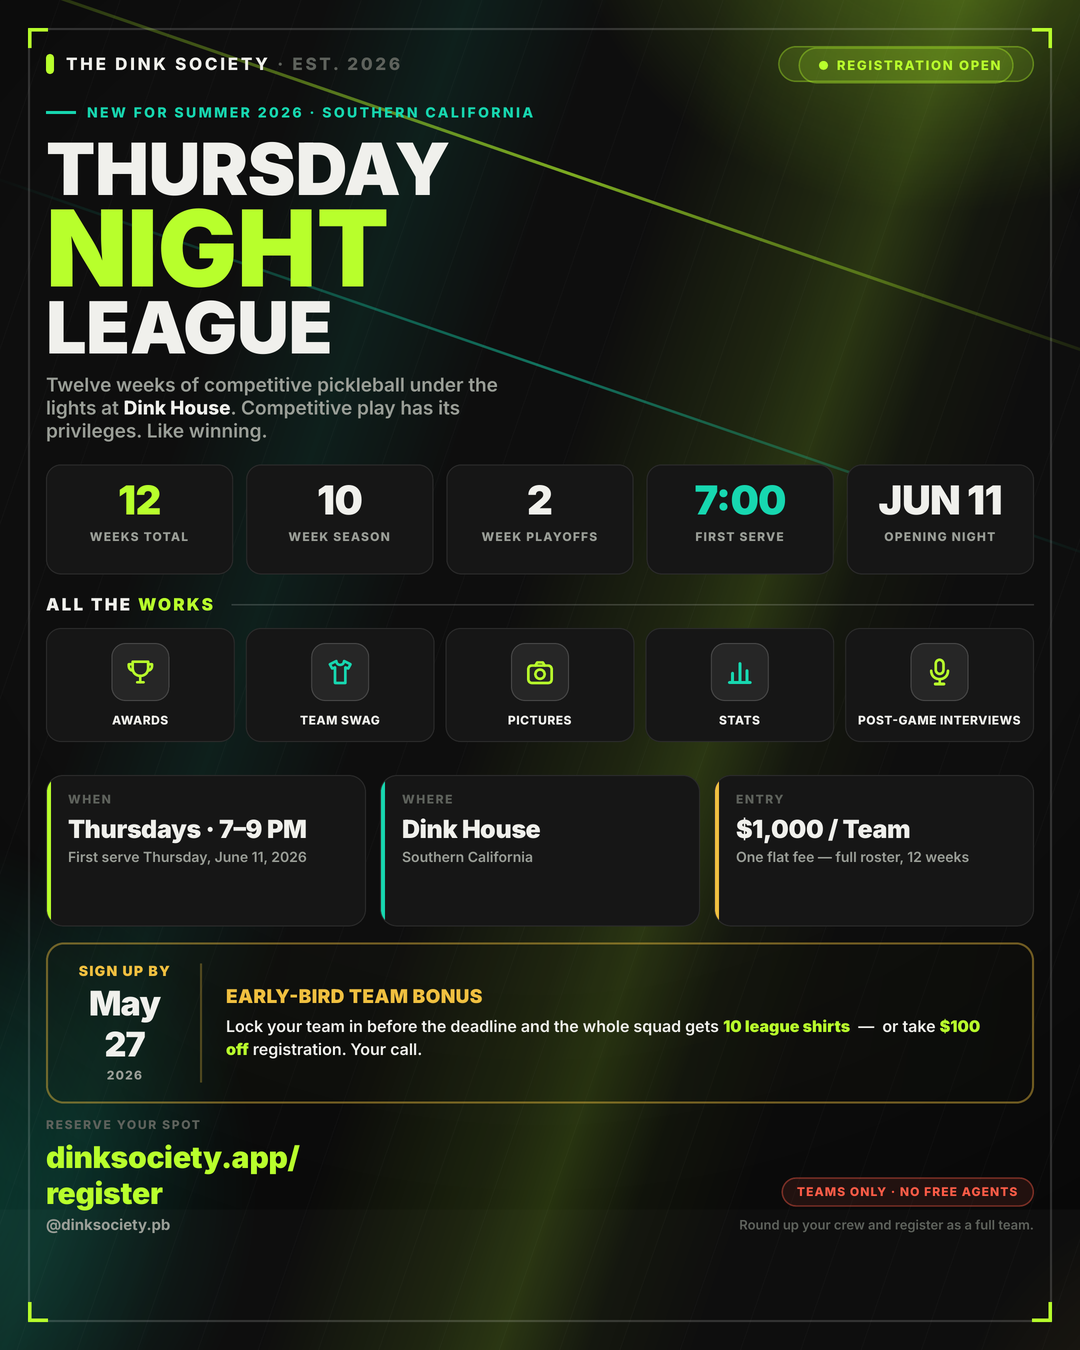
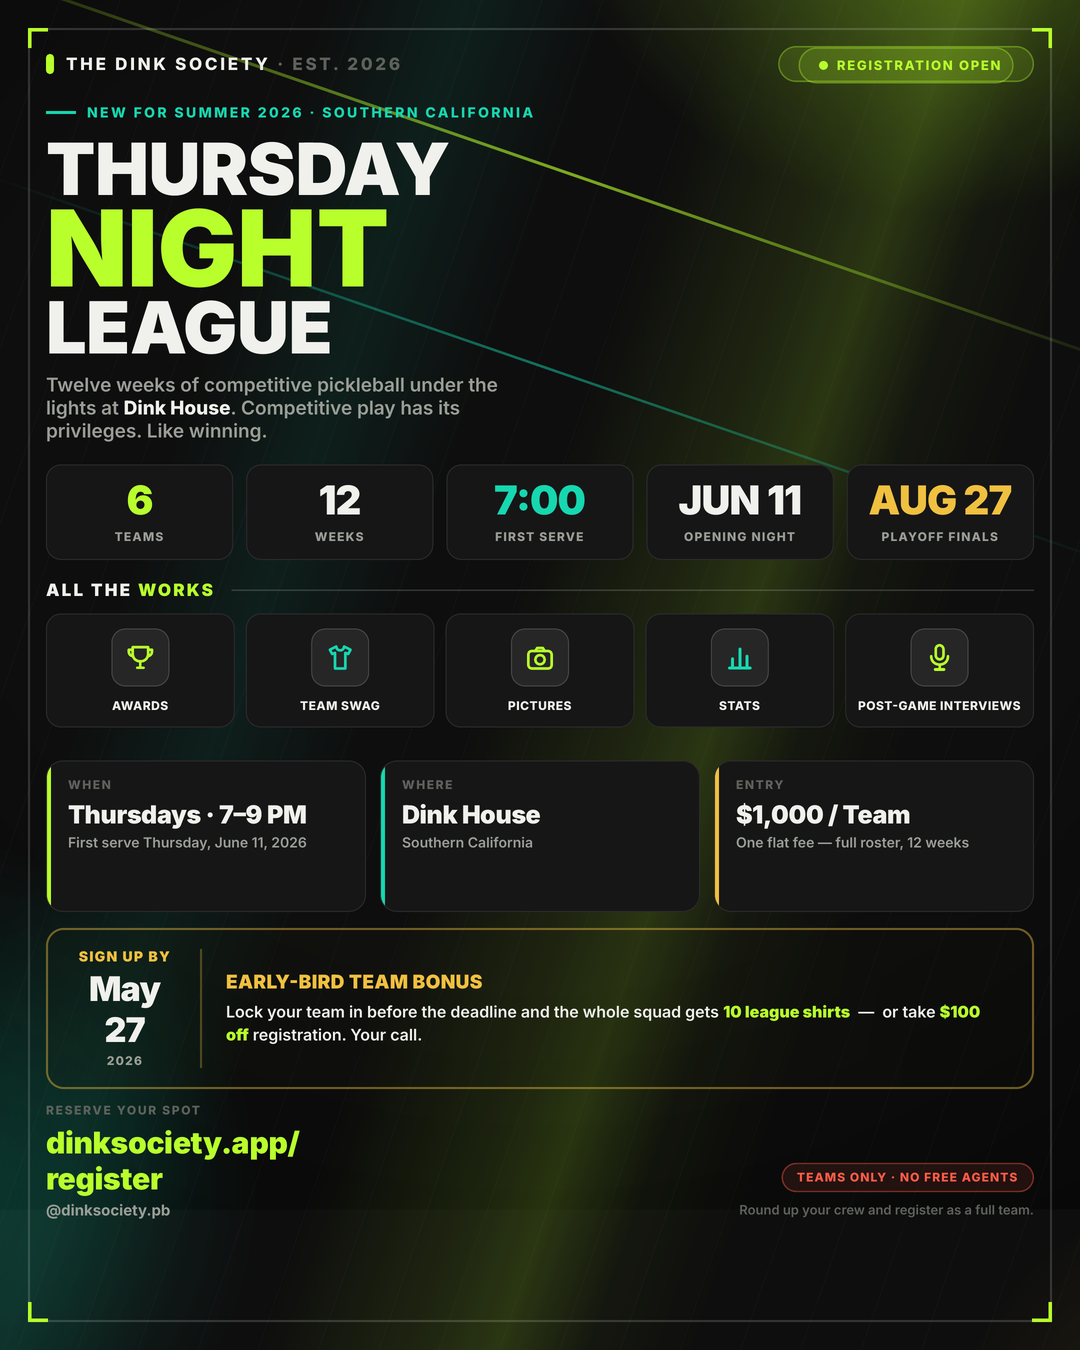
Registration:  deposit model with tracked team-fee balance

diff --git a/netlify/functions/register-checkout.js b/netlify/functions/register-checkout.js
@@ -73,6 +73,32 @@ export default async (req) => {
       }
     }
 
+    // ── Deposit model ──────────────────────────────────────────
+    // Teams pay a deposit now; the remaining team fee is tracked as a
+    // balance collected separately before the season. Agents pay in full.
+    const isTeam = path === 'team';
+    let depositAmount = 100;
+    let balanceDueDate = null;
+    try {
+      const configStore = getStore({ name: 'config', consistency: 'strong' });
+      const cfgRaw = await configStore.get('circuit-settings');
+      if (cfgRaw) {
+        const cfg = JSON.parse(cfgRaw);
+        if (cfg.depositAmount != null) depositAmount = Number(cfg.depositAmount);
+        if (cfg.balanceDueDate) balanceDueDate = cfg.balanceDueDate;
+      }
+    } catch (e) {
+      console.warn('Could not load circuit-settings for deposit; using defaults:', e.message);
+    }
+
+    const totalPrice = resolvedPrice;
+    // Agents pay in full; clamp the deposit so it never exceeds the total.
+    if (!isTeam || !(depositAmount > 0) || depositAmount > totalPrice) {
+      depositAmount = totalPrice;
+    }
+    const amountDueNow = depositAmount;
+    const balanceDue = Math.max(0, totalPrice - amountDueNow);
+
     // Generate a registration ID
     const regId = crypto.randomBytes(8).toString('hex');
 
@@ -85,7 +111,12 @@ export default async (req) => {
       divisionLabel: divisionLabel || division,
       path,
       status: 'pending',
-      price: resolvedPrice,
+      price: totalPrice,
+      totalPrice: totalPrice,
+      paymentType: isTeam ? 'deposit' : 'full',
+      depositAmount: amountDueNow,
+      balanceDue: balanceDue,
+      balanceDueDate: balanceDue > 0 ? balanceDueDate : null,
       team: path === 'team' ? team : undefined,
       agent: path === 'agent' ? agent : undefined,
       createdAt: new Date().toISOString(),
@@ -117,27 +148,36 @@ export default async (req) => {
       },
     };
 
-    // Use the Stripe price ID from the season if available,
-    // otherwise fall back to price_data (inline pricing)
-    if (stripePriceId) {
+    // Teams are billed the deposit now via an inline price. The full-price
+    // Stripe price ID is only used when the whole amount is due at checkout
+    // (free agents).
+    if (isTeam) {
+      sessionParams.line_items = [{
+        price_data: {
+          currency: 'usd',
+          product_data: {
+            name: `Dink Society — Team Registration Deposit (${divisionLabel || division})`,
+            description: `${circuit || 'Dink Society'} · ${divisionLabel || division} · $${amountDueNow} deposit toward the $${totalPrice} team fee`,
+          },
+          unit_amount: Math.round(amountDueNow * 100),
+        },
+        quantity: 1,
+      }];
+    } else if (stripePriceId) {
       sessionParams.line_items = [{
         price: stripePriceId,
         quantity: 1,
       }];
     } else {
       // Fallback: create an inline price (works even without admin-created Stripe products)
-      const displayName = path === 'team'
-        ? `Dink Society — Team Registration (${divisionLabel || division})`
-        : `Dink Society — Free Agent Registration (${divisionLabel || division})`;
-
       sessionParams.line_items = [{
         price_data: {
           currency: 'usd',
           product_data: {
-            name: displayName,
+            name: `Dink Society — Free Agent Registration (${divisionLabel || division})`,
             description: `${circuit || 'Dink Society'} · ${divisionLabel || division}`,
           },
-          unit_amount: Math.round(resolvedPrice * 100),
+          unit_amount: Math.round(totalPrice * 100),
         },
         quantity: 1,
       }];

diff --git a/public/register.html b/public/register.html
@@ -38,6 +38,12 @@
 
     .reg-h2 { font-size: var(--text-xl); font-weight: 800; text-transform: uppercase; margin: 0 0 var(--space-2); }
     .reg-lede { font-size: 13px; line-height: 1.6; color: var(--color-text-muted); margin: 0 0 var(--space-6); }
+    .reg-note {
+      font-size: 12.5px; line-height: 1.6; color: var(--color-text-muted);
+      background: var(--color-lime-ghost); border: 1px solid var(--color-lime);
+      border-radius: var(--radius-sm); padding: 12px 14px; margin: 0 0 var(--space-6);
+    }
+    .reg-note strong { color: var(--color-text); }
 
     /* ── Path cards ───────────────────────────────────── */
     .reg-paths { display: grid; grid-template-columns: 1fr 1fr; gap: 12px; }
@@ -176,6 +182,7 @@
       <section class="reg-section is-active" data-section="1">
         <h2 class="reg-h2">Team details</h2>
         <p class="reg-lede">Confirm your division, name the team, and enter the captain's info. You'll build your roster (4–10 players) through the Captain Portal after checkout.</p>
+        <p class="reg-note" id="deposit-note">Reserve your team's spot with a <strong>$100 deposit</strong> today. The remaining <strong>$900</strong> of the $1,000 team fee is due by <strong>June 4, 2026</strong>.</p>
 
         <div class="reg-field">
           <div class="reg-field__label">Division</div>
@@ -221,10 +228,10 @@
       <!-- Step 3: Review -->
       <section class="reg-section" data-section="3">
         <h2 class="reg-h2">Review & pay</h2>
-        <p class="reg-lede">Confirm the details, then pay via Stripe to lock in your spot.</p>
+        <p class="reg-lede">Confirm the details, then pay your deposit via Stripe to lock in your spot. Your remaining team-fee balance is due before the season starts.</p>
         <div class="reg-summary" id="summary"></div>
         <div class="reg-status" id="submit-status"></div>
-        <div class="reg-actions"><button type="button" class="reg-btn reg-btn--secondary" data-back="2">Back</button><button type="button" class="reg-btn reg-btn--primary" id="submit-btn">Pay & secure spot</button></div>
+        <div class="reg-actions"><button type="button" class="reg-btn reg-btn--secondary" data-back="2">Back</button><button type="button" class="reg-btn reg-btn--primary" id="submit-btn">Pay deposit & secure spot</button></div>
       </section>
     </div>
   </div>
@@ -234,8 +241,39 @@
 
   <script>
     const TEAM_PRICE = 1000;
+    let DEPOSIT = 100;
+    let BALANCE_DUE_DATE = '2026-06-04';
     const DIVISION = { code: '3.5M', label: '3.0–3.5 Mixed' };
     const state = { division: DIVISION.code, step: 1 };
+
+    // Pull live deposit / balance-due settings (falls back to the constants above)
+    fetch('/.netlify/functions/admin-settings')
+      .then(r => r.json())
+      .then(s => {
+        if (s && s.depositAmount != null) DEPOSIT = Number(s.depositAmount);
+        if (s && s.balanceDueDate) BALANCE_DUE_DATE = s.balanceDueDate;
+        applyDepositCopy();
+      })
+      .catch(() => {});
+
+    function fmtDate(iso) {
+      if (!iso) return 'before the season';
+      const d = new Date(iso + 'T00:00:00');
+      return isNaN(d.getTime()) ? iso : d.toLocaleDateString('en-US', { month: 'long', day: 'numeric', year: 'numeric' });
+    }
+
+    function applyDepositCopy() {
+      const balance = Math.max(0, TEAM_PRICE - DEPOSIT);
+      const note = document.getElementById('deposit-note');
+      if (note) {
+        note.innerHTML = 'Reserve your team\'s spot with a <strong>$' + DEPOSIT.toLocaleString() +
+          ' deposit</strong> today. The remaining <strong>$' + balance.toLocaleString() +
+          '</strong> of the $' + TEAM_PRICE.toLocaleString() + ' team fee is due by <strong>' +
+          fmtDate(BALANCE_DUE_DATE) + '</strong>.';
+      }
+      const btn = document.getElementById('submit-btn');
+      if (btn) btn.textContent = 'Pay $' + DEPOSIT.toLocaleString() + ' deposit & secure spot';
+    }
 
     // Step navigation
     function goToStep(n) {
@@ -295,9 +333,12 @@
       rows.push(['Registration type', 'Team']);
       rows.push(['Team name', escapeHtml(document.getElementById('team-name').value.trim())]);
       rows.push(['Captain', escapeHtml(val('p1-first') + ' ' + val('p1-last'))]);
+      rows.push(['Season team fee', '$' + TEAM_PRICE.toLocaleString()]);
+      const balance = Math.max(0, TEAM_PRICE - DEPOSIT);
+      rows.push(['Balance due ' + fmtDate(BALANCE_DUE_DATE), '$' + balance.toLocaleString()]);
       document.getElementById('summary').innerHTML =
         rows.map(([k, v]) => `<div class="reg-summary__row"><span class="reg-summary__label">${k}</span><span class="reg-summary__value">${v}</span></div>`).join('') +
-        `<div class="reg-summary__row reg-summary__row--total"><span class="reg-summary__label">Total due today</span><span class="reg-summary__value">$${TEAM_PRICE.toLocaleString()}</span></div>`;
+        `<div class="reg-summary__row reg-summary__row--total"><span class="reg-summary__label">Deposit due today</span><span class="reg-summary__value">$${DEPOSIT.toLocaleString()}</span></div>`;
     }
 
     // Submit → Stripe

diff --git a/netlify/functions/stripe-webhook.js b/netlify/functions/stripe-webhook.js
@@ -83,7 +83,17 @@ export default async (req) => {
       reg.confirmedAt = new Date().toISOString();
       reg.stripePaymentIntent = session.payment_intent || null;
       reg.stripeCustomer = session.customer || null;
-      reg.amountPaid = session.amount_total ? session.amount_total / 100 : reg.price;
+
+      // Record what was actually collected. For deposit registrations this
+      // is the deposit; the rest stays tracked as an outstanding balance.
+      const paidNow = session.amount_total
+        ? session.amount_total / 100
+        : (reg.depositAmount || reg.price || 0);
+      const totalFee = reg.totalPrice || reg.price || paidNow;
+      reg.amountPaid = paidNow;
+      reg.depositPaid = paidNow;
+      reg.balanceDue = reg.paymentType === 'deposit' ? Math.max(0, totalFee - paidNow) : 0;
+      reg.paymentStatus = reg.balanceDue > 0 ? 'deposit_paid' : 'paid_in_full';
 
       // Write to confirmed/ prefix
       await regStore.set(confirmedKey, JSON.stringify(reg));
@@ -147,6 +157,20 @@ export default async (req) => {
         const siteUrl = process.env.SITE_URL || '';
         const isTeam = reg.path === 'team';
 
+        const hasBalance = reg.paymentType === 'deposit' && (reg.balanceDue || 0) > 0;
+        const dueDateLabel = (() => {
+          if (!reg.balanceDueDate) return '';
+          const d = new Date(reg.balanceDueDate + 'T00:00:00');
+          return isNaN(d.getTime())
+            ? reg.balanceDueDate
+            : d.toLocaleDateString('en-US', { month: 'long', day: 'numeric', year: 'numeric' });
+        })();
+        const paymentRows = hasBalance
+          ? `<tr><td style="padding: 6px 0; color: #8a8a8a;">Team fee</td><td style="padding: 6px 0; text-align: right; font-weight: 600;">$${totalFee}</td></tr>
+                    <tr><td style="padding: 6px 0; color: #8a8a8a;">Deposit paid</td><td style="padding: 6px 0; text-align: right; font-weight: 600; color: #b8ff2c;">$${reg.depositPaid || reg.amountPaid}</td></tr>
+                    <tr><td style="padding: 6px 0; color: #8a8a8a;">Balance due${dueDateLabel ? ' by ' + dueDateLabel : ''}</td><td style="padding: 6px 0; text-align: right; font-weight: 600;">$${reg.balanceDue}</td></tr>`
+          : `<tr><td style="padding: 6px 0; color: #8a8a8a;">Amount paid</td><td style="padding: 6px 0; text-align: right; font-weight: 600; color: #b8ff2c;">$${reg.amountPaid || reg.price}</td></tr>`;
+
         try {
           await sendEmail({
             to: recipientEmail,
@@ -166,10 +190,18 @@ export default async (req) => {
                     <tr><td style="padding: 6px 0; color: #8a8a8a;">Division</td><td style="padding: 6px 0; text-align: right; font-weight: 600;">${reg.divisionLabel || reg.division}</td></tr>
                     ${isTeam ? `<tr><td style="padding: 6px 0; color: #8a8a8a;">Team</td><td style="padding: 6px 0; text-align: right; font-weight: 600;">${reg.team?.name || '—'}</td></tr>` : ''}
                     <tr><td style="padding: 6px 0; color: #8a8a8a;">Type</td><td style="padding: 6px 0; text-align: right; font-weight: 600;">${isTeam ? 'Team' : 'Free Agent'}</td></tr>
-                    <tr><td style="padding: 6px 0; color: #8a8a8a;">Amount paid</td><td style="padding: 6px 0; text-align: right; font-weight: 600; color: #b8ff2c;">$${reg.amountPaid || reg.price}</td></tr>
+                    ${paymentRows}
                     <tr><td style="padding: 6px 0; color: #8a8a8a;">Reference</td><td style="padding: 6px 0; text-align: right; font-family: monospace; font-size: 12px; color: #8a8a8a;">${regId.toUpperCase()}</td></tr>
                   </table>
                 </div>
+
+                ${hasBalance ? `
+                <div style="background: #1a1a1a; border: 1px solid #2a2a2a; border-left: 3px solid #b8ff2c; padding: 16px 20px; border-radius: 0 12px 12px 0; margin-bottom: 24px;">
+                  <p style="font-size: 14px; margin: 0; line-height: 1.6; color: #8a8a8a;">
+                    <strong style="color: #f5f5f5;">Balance reminder:</strong> Your $${reg.balanceDue} team-fee balance is due${dueDateLabel ? ' by ' + dueDateLabel : ' before the season starts'}. We'll follow up with payment details — your spot is held in the meantime.
+                  </p>
+                </div>
+                ` : ''}
 
                 ${isTeam ? `
                 <div style="background: #1a1a1a; border: 1px solid #2a2a2a; border-left: 3px solid #b8ff2c; padding: 20px; border-radius: 0 12px 12px 0; margin-bottom: 24px;">

diff --git a/public/admin.html b/public/admin.html
@@ -483,6 +483,10 @@
             </div>
             <div class="arow">
               <div class="af"><label for="set-teams-per-div">Teams per division</label><input type="number" id="set-teams-per-div" min="2" max="16"></div>
+              <div class="af"><label for="set-deposit">Deposit due at registration ($)</label><input type="number" id="set-deposit" min="0" step="1"></div>
+            </div>
+            <div class="arow">
+              <div class="af"><label for="set-balance-due">Team-fee balance due date</label><input type="date" id="set-balance-due"></div>
               <div class="af"></div>
             </div>
             <div style="display:flex;justify-content:space-between;align-items:center;margin-top:8px;">
@@ -600,10 +604,10 @@
   async function loadSettings() {
     try {
       const data = await apiJSON('/.netlify/functions/admin-settings');
-      SETTINGS = { circuitName: 'Circuit ONE', startDate: '2026-06-11', teamFee: '$1,000', agentFee: '$75', defaultVenue: '', weeks: 12, teamsPerDiv: 6, ...data };
+      SETTINGS = { circuitName: 'Circuit ONE', startDate: '2026-06-11', teamFee: '$1,000', agentFee: '$75', defaultVenue: '', weeks: 12, teamsPerDiv: 6, depositAmount: 100, balanceDueDate: '2026-06-04', ...data };
     } catch (e) {
       console.warn('Settings load failed, using defaults:', e);
-      SETTINGS = { circuitName: 'Circuit ONE', startDate: '2026-06-11', teamFee: '$1,000', agentFee: '$75', defaultVenue: '', weeks: 12, teamsPerDiv: 6 };
+      SETTINGS = { circuitName: 'Circuit ONE', startDate: '2026-06-11', teamFee: '$1,000', agentFee: '$75', defaultVenue: '', weeks: 12, teamsPerDiv: 6, depositAmount: 100, balanceDueDate: '2026-06-04' };
     }
     applySettings();
   }
@@ -622,6 +626,8 @@
     f('set-venue', SETTINGS.defaultVenue);
     f('set-weeks', SETTINGS.weeks);
     f('set-teams-per-div', SETTINGS.teamsPerDiv);
+    f('set-deposit', SETTINGS.depositAmount);
+    f('set-balance-due', SETTINGS.balanceDueDate);
 
     if (SETTINGS.updatedAt) {
       const d = new Date(SETTINGS.updatedAt);
@@ -641,6 +647,8 @@
       defaultVenue: $id('set-venue').value.trim(),
       weeks: parseInt($id('set-weeks').value) || 12,
       teamsPerDiv: parseInt($id('set-teams-per-div').value) || 6,
+      depositAmount: parseFloat($id('set-deposit').value) || 100,
+      balanceDueDate: $id('set-balance-due').value,
     };
     try {
       const data = await apiJSON('/.netlify/functions/admin-settings', {
@@ -789,8 +797,15 @@
           ? '<strong style="font-weight:600">' + h(r.team?.name) + '</strong> <span style="color:var(--color-text-faint);font-size:10px">(' + h(r.team?.captain) + ')</span>'
           : h(r.agent?.name);
         const em = r.path === 'team' ? r.team?.players?.[0]?.email : r.agent?.email;
-        const paid = r.amountPaid > 0;
-        const pp = paid ? '<span class="p p--paid">$' + r.amountPaid + '</span>' : '<span class="p p--unpaid">Unpaid</span>';
+        let pp;
+        if (r.amountPaid > 0) {
+          const bal = r.balanceDue || 0;
+          pp = bal > 0
+            ? '<span class="p p--paid">$' + r.amountPaid + ' dep</span> <span class="p p--unpaid">$' + bal + ' due</span>'
+            : '<span class="p p--paid">$' + r.amountPaid + ' paid</span>';
+        } else {
+          pp = '<span class="p p--unpaid">Unpaid</span>';
+        }
         return '<tr style="cursor:default"><td>' + nm + '</td><td><span class="p p--' + (r.path || 'team') + '">' + (r.path === 'team' ? 'Team' : 'Agent') + '</span></td><td>' + h(r.divisionLabel || r.division) + '</td><td><span class="p p--' + (r.status || 'pending') + '">' + (r.status || 'pending') + '</span></td><td>' + pp + '</td><td style="font-size:11px;color:var(--color-text-muted)">' + h(em) + '</td><td style="font-size:10px;color:var(--color-text-faint)">' + fd(r.createdAt) + '</td></tr>';
       }).join('') + '</tbody></table>';
   }

diff --git a/netlify/functions/admin-registrations.js b/netlify/functions/admin-registrations.js
@@ -32,6 +32,12 @@ export default async (req) => {
       path: r.path,
       status: r.status || 'pending',
       amountPaid: r.amountPaid,
+      totalPrice: r.totalPrice ?? r.price ?? null,
+      depositPaid: r.depositPaid ?? null,
+      balanceDue: r.balanceDue ?? null,
+      balanceDueDate: r.balanceDueDate ?? null,
+      paymentType: r.paymentType ?? null,
+      paymentStatus: r.paymentStatus ?? null,
       createdAt: r.createdAt,
       confirmedAt: r.confirmedAt || null,
       approvedBy: r.approvedBy || null,

diff --git a/netlify/functions/admin-settings.js b/netlify/functions/admin-settings.js
@@ -14,6 +14,8 @@ const DEFAULTS = {
   divisions:      ['3.0 Mixed', '3.5 Mixed'],
   teamsPerDiv:    6,
   weeks:          7,
+  depositAmount:  100,          // dollars collected at registration
+  balanceDueDate: '2026-06-04', // when the remaining team-fee balance is due
 };
 
 function json(body, status = 200) {
@@ -61,6 +63,8 @@ export default async (req) => {
         divisions:    body.divisions    ?? prev.divisions,
         teamsPerDiv:  body.teamsPerDiv  ?? prev.teamsPerDiv,
         weeks:        body.weeks        ?? prev.weeks,
+        depositAmount:  body.depositAmount  ?? prev.depositAmount  ?? DEFAULTS.depositAmount,
+        balanceDueDate: body.balanceDueDate ?? prev.balanceDueDate ?? DEFAULTS.balanceDueDate,
         updatedAt:    new Date().toISOString(),
         updatedBy:    admin.email || 'admin',
       };